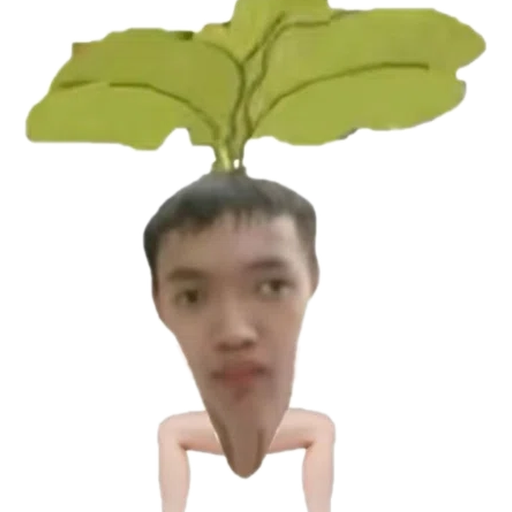
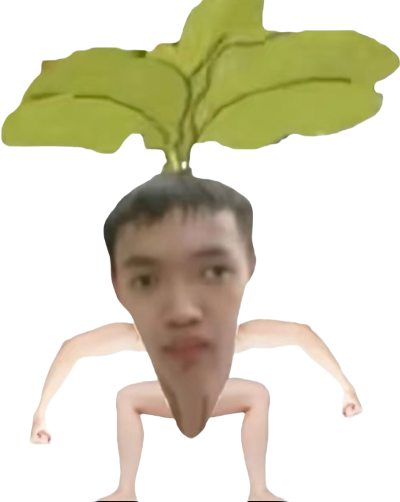
art: use provided cutout boss images; build 1.3.0

diff --git a/js/main.js b/js/main.js
@@ -937,7 +937,7 @@
     input.setEnabled(false);
   }
 
-  const BUILD_TAG = '2026-11-08b';
+  const BUILD_TAG = '2026-11-08c';
   function titleLockScroll() {
     const t = document.getElementById('title');
     if (t) {

diff --git a/tools/boss_check.py b/tools/boss_check.py
@@ -1,0 +1,3 @@
+from PIL import Image
+for k in ['qianchang','angryqc','chenjr']:
+    im=Image.open(f'assets/bosses/{k}_cut.png'); print(k, im.size, im.mode, im.getpixel((0,0)))
